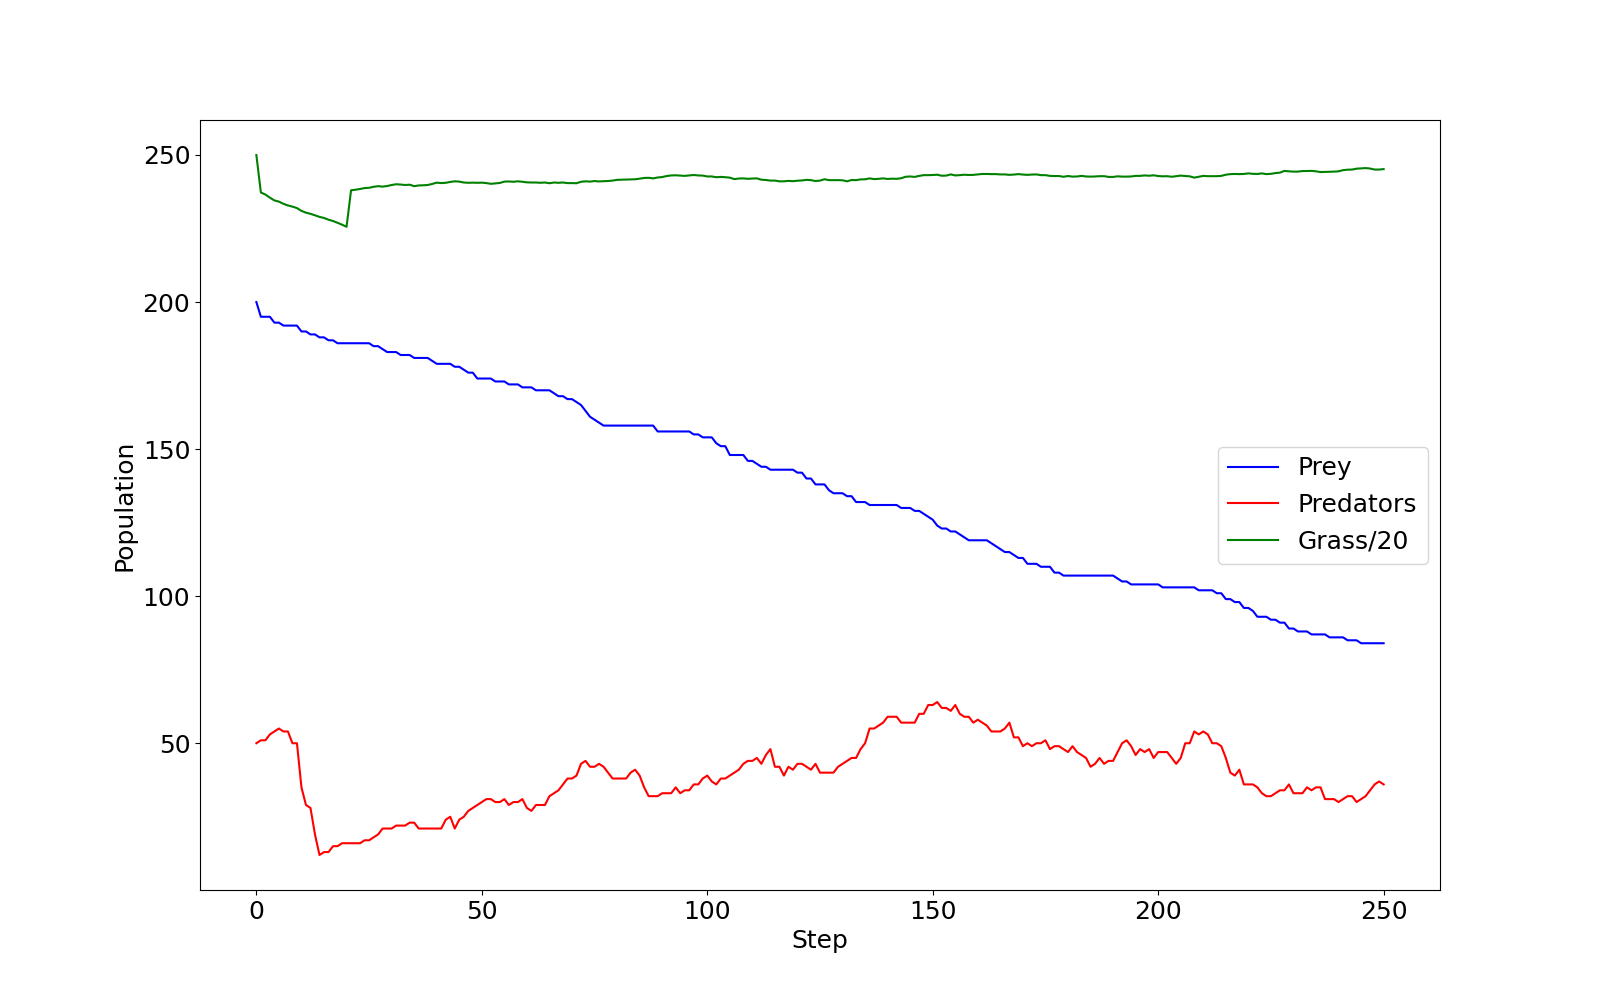
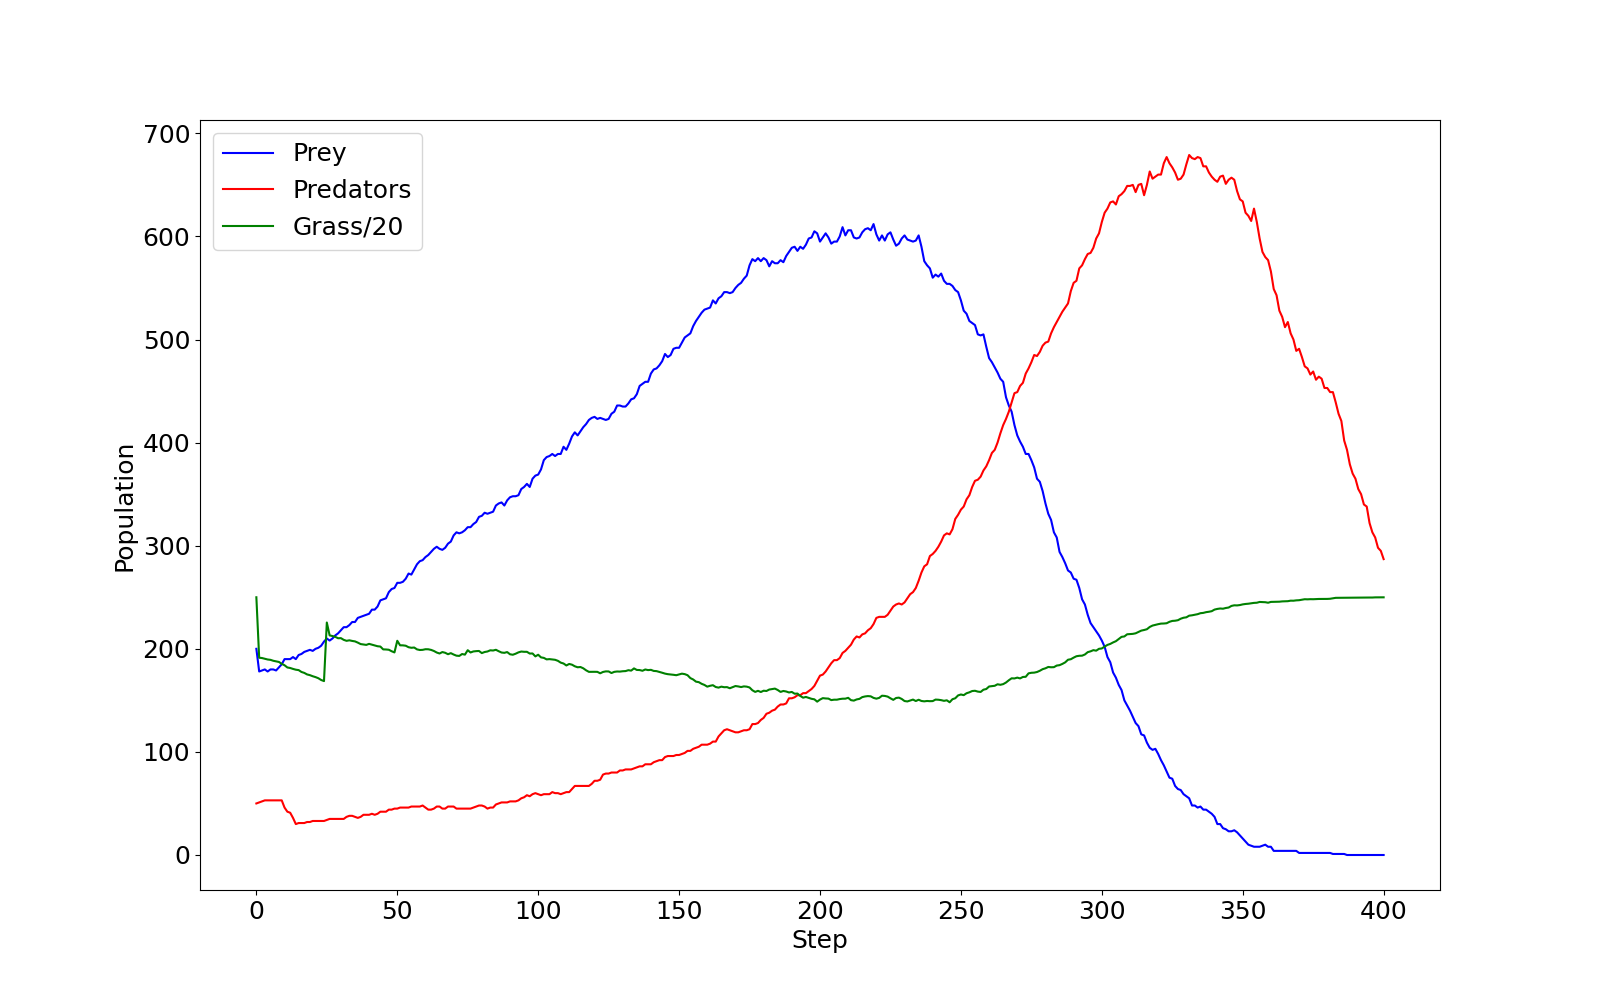
update predprey output figure and episode contents

diff --git a/episodes/files/pred-prey/predprey.py b/episodes/files/pred-prey/predprey.py
@@ -18,12 +18,9 @@ PRED_PREY_INTERACTION_RADIUS = 0.10
 PRED_SPEED_ADVANTAGE = 1.5
 PRED_KILL_DISTANCE = 0.06
 GRASS_EAT_DISTANCE = 0.05
-
 GAIN_FROM_FOOD_PREY = 18
 GAIN_FROM_FOOD_PREDATOR = 70
-
 GRASS_REGROW_CYCLES = 24
-
 PRED_HUNGER_THRESH = 115
 PREY_HUNGER_THRESH = 140
 
@@ -146,7 +143,7 @@ class Prey:
             predator_list[predator_index].life += GAIN_FROM_FOOD_PREDATOR
             return True
 
-        # If the life has reduced to 0 then the prey should die or starvation
+        # If the life has reduced to 0 then the prey should die of starvation
         if self.life < 1:
             return True
         return False
@@ -200,7 +197,6 @@ class Predator:
         if is_a_prey_in_range:
             self.steer_x = closest_prey_x - self.x
             self.steer_y = closest_prey_y - self.y
-
 
     def avoid_predators(self, predator_list):
         # Fetch this predator's position

diff --git a/episodes/profiling-lines.md b/episodes/profiling-lines.md
@@ -425,7 +425,7 @@ Line-profile this method, using the output from the profile consider how it migh
 
 - Remember that the function needs to be decorated with `@profile`
 - This must be imported via `from line_profiler import profile`
-- Line-level profiling `Grass::eaten()`, the most called function will slow it down significantly. You may wish to reduce the number of steps `predprey.py:305`.
+- Line-level profiling `Grass::eaten()`, the most called function will slow it down significantly. You may wish to reduce the number of steps passed as an argument.
 
 :::::::::::::::::::::::::::::::::
 
@@ -446,7 +446,7 @@ from line_profiler import profile
 
 `line_profiler` can then be executed via `python -m kernprof -lvr predprey.py <steps>`.
 
-Since this will take much longer to run due to `line_profiler`, you may wish to profile fewer `steps` than you did in the function-level profiling exercise (250 was suggested for a full run).
+Since this will take much longer to run due to `line_profiler`, you may wish to profile fewer `steps` (e.g., use 30 steps instead of the 200 steps used in the function-level profiling exercise).
 In this instance it may change the profiling output slightly, as the number of `Prey` and their member variables evaluated by this method both change as the model progresses, but the overall pattern is likely to remain similar.
 
 Alternatively, you can kill the profiling process (e.g. `ctrl + c`) after a minute and the currently collected partial profiling information will be output.
@@ -457,7 +457,7 @@ This will produce output similar to that below.
 Wrote profile results to predprey.py.lprof
 Timer unit: 1e-06 s
 
-Total time: 101.573 s
+Total time: 92.9366 s
 File: predprey.py
 Function: eaten at line 278
 
@@ -465,33 +465,33 @@ Line #      Hits         Time  Per Hit   % Time  Line Contents
 ==============================================================
    278                                               @profile
    279                                               def eaten(self, prey_list):
-   280   1250000     227663.1      0.2      0.2          if self.available:
-   281   1201630     165896.4      0.1      0.2              prey_index = -1
-   282   1201630     166219.0      0.1      0.2              closest_prey = GRASS_EAT_DISTANCE
+   280   1000000     122091.0      0.1      0.1          if self.available:
+   281    735158      50360.0      0.1      0.1              prey_index = -1
+   282    735158      66788.0      0.1      0.1              closest_prey = GRASS_EAT_DISTANCE
    283
    284                                                       # Iterate prey_location messages to find the closest prey
-   285 198235791   29227902.1      0.1     28.8              for i in range(len(prey_list)):
-   286 197034161   30158318.8      0.2     29.7                  prey = prey_list[i]
-   287 197034161   38781451.1      0.2     38.2                  if prey.life < PREY_HUNGER_THRESH:
+   285 271999493   32227115.0      0.1     34.7              for i in range(len(prey_list)):
+   286 271264335   20278656.0      0.1     21.8                  prey = prey_list[i]
+   287 271264335   20704920.0      0.1     22.3                  if prey.life < PREY_HUNGER_THRESH:
    288                                                               # Check if they are within interaction radius
-   289   2969470     579923.4      0.2      0.6                      dx = self.x - prey.x
-   290   2969470     552092.2      0.2      0.5                      dy = self.y - prey.y
-   291   2969470     938669.8      0.3      0.9                      distance = math.sqrt(dx*dx + dy*dy)
+   289  61656593    4448711.0      0.1      4.8                      dx = self.x - prey.x
+   290  61656593    4591001.0      0.1      4.9                      dy = self.y - prey.y
+   291  61656593    5975450.0      0.1      6.4                      distance = math.sqrt(dx*dx + dy*dy)
    292
-   293   2969470     552853.8      0.2      0.5                      if distance < closest_prey:
-   294      2532        469.3      0.2      0.0                          prey_index = i
-   295      2532        430.1      0.2      0.0                          closest_prey = distance
+   293  61656593    4273085.0      0.1      4.6                      if distance < closest_prey:
+   294     13067        921.0      0.1      0.0                          prey_index = i
+   295     13067        843.0      0.1      0.0                          closest_prey = distance
    296
-   297   1201630     217534.5      0.2      0.2              if prey_index >= 0:
+   297    735158     189561.0      0.3      0.2              if prey_index >= 0:
    298                                                           # Add grass eaten message
-   299      2497       2181.8      0.9      0.0                  prey_list[prey_index].life += GAIN_FROM_FOOD_PREY
+   299     12078       2743.0      0.2      0.0                  prey_list[prey_index].life += GAIN_FROM_FOOD_PREY
    300
    301                                                           # Update grass agent variables
-   302      2497        793.9      0.3      0.0                  self.dead_cycles = 0
-   303      2497        631.0      0.3      0.0                  self.available = 0
+   302     12078       1244.0      0.1      0.0                  self.dead_cycles = 0
+   303     12078       3132.0      0.3      0.0                  self.available = 0
 ```
 
-From the profiling output it can be seen that lines 285-287 occupy over 90% of the method's runtime!
+From the profiling output it can be seen that lines 285-287 occupy almost 80% of the method's runtime!
 
 ```python
             for i in range(len(prey_list)):
@@ -499,9 +499,9 @@ From the profiling output it can be seen that lines 285-287 occupy over 90% of t
                 if prey.life < PREY_HUNGER_THRESH:
 ```
 
-Given that the following line 289 only has a relative 0.6% time, it can be understood that the vast majority of times the condition `prey.life < PREY_HUNGER_THRESH` is evaluated it does not proceed.
+Given that these lines have 271.3 million hits, while the following lines only has 61.7 million, it appears that the vast majority of times, the condition `prey.life < PREY_HUNGER_THRESH` is not fulfilled.
 
-Remembering that this method is executed once per each of the 5000 `Grass` agents each step of the model, it could make sense to pre-filter `prey_list` once each time-step before it is passed to `Grass::eaten()`. This would greatly reduce the number of `Prey` iterated, reducing the cost of the method.
+Remembering that this method is executed once for each of the 5000 `Grass` agents during each time step of the model, it could make sense to pre-filter `prey_list` once per time step before it is passed to `Grass::eaten()`. This would greatly reduce the number of `Prey` iterated, reducing the cost of the method.
 
 :::::::::::::::::::::::::::::::::
 ::::::::::::::::::::::::::::::::::::::::::::::::

diff --git a/episodes/profiling-functions.md b/episodes/profiling-functions.md
@@ -429,7 +429,7 @@ python -m snakeviz predprey_out.prof
 
 ## Exercise 2: Predator Prey
 
-Download and profile <a href="files/pred-prey/predprey.py" download>the Python predator prey model</a>, try to locate the function call(s) where the majority of execution time is being spent
+Download and profile <a href="files/pred-prey/predprey.py" download>the Python predator prey model</a>, try to locate the function call(s) where the majority of execution time is being spent.
 
 *This exercise uses the packages `numpy` and `matplotlib`, they can be installed via `pip install numpy matplotlib`.* 
 
@@ -438,7 +438,7 @@ Download and profile <a href="files/pred-prey/predprey.py" download>the Python p
 > The three agents; predators, prey and grass exist in a two dimensional grid. Predators eat prey, prey eat grass. The size of each population changes over time. Depending on the parameters of the model, the populations may oscillate, grow or collapse due to the availability of their food source.
 
 The program can be executed via `python predprey.py <steps>`.
-The value of `steps` for a full run is 250, however a full run may not be necessary to find the bottlenecks.
+The value of `steps` for a full run is 400, which may take a few minutes. However, using 100–200 steps should be sufficient to find the bottlenecks.
 
 When the model finishes it outputs a graph of the three populations `predprey_out.png`.
 
@@ -454,13 +454,13 @@ If the table is ordered by `ncalls`, it can be identified as the joint 4th most 
 
 If you checked `predprey_out.png` (shown below), you should notice that there are significantly more `Grass` agents than `Predators` or `Prey`.
 
-![`predprey_out.png` as produced by the default configuration of `predprey.py`.](episodes/fig/predprey_out.png){alt="A line graph plotting population over time through 250 steps of the pred prey model. Grass/20, shown in green, has a brief dip in the first 30 steps, but recovers holding steady at approximately 240 (4800 agents). Prey, shown in blue, starts at 200, quickly drops to around 185, before levelling off for steps and then slowly declining to a final value of 50. The data for predators, shown in red, has significantly more noise. There are 50 predators to begin, this rises briefly before falling to around 10, from here it noisily grows to around 70 by step 250 with several larger declines during the growth."}
+![`predprey_out.png` as produced by the default configuration of `predprey.py`.](episodes/fig/predprey_out.png){alt="A line graph plotting population over time through 400 time steps of the pred prey model. The amount of grass, shown in green, is scaled down by a factor of 20 to fit onto the graph. It has a brief dip in the first 25 steps, then slowly declines from approximately 220 to 150 over the next 200 steps, before steadily returning to 250. The number of prey, shown in blue, starts at 200, then grows to around 600 after 200 steps, before declining quickly and reaching zero at 350 to 400 steps. The number of predators, shown in red, falls from 50 to around 30 after 15 time steps, then grows to almost 700 by step 330 before declining quickly."}
 
 Similarly, the `Grass::eaten()` has a `percall` time is inline with other agent functions such as `Prey::flock()` (from `predprey.py:67`).
 
 Maybe we could investigate this further with line profiling!
 
-*You may have noticed many iciles on the right hand of the diagram, these primarily correspond to the `import` of `matplotlib` which is relatively expensive!*
+*You may have noticed many icicles on the right hand of the diagram, these primarily correspond to the `import` of `matplotlib` which is relatively expensive!*
 
 :::::::::::::::::::::::::::::::::
 :::::::::::::::::::::::::::::::::::::::::::::::